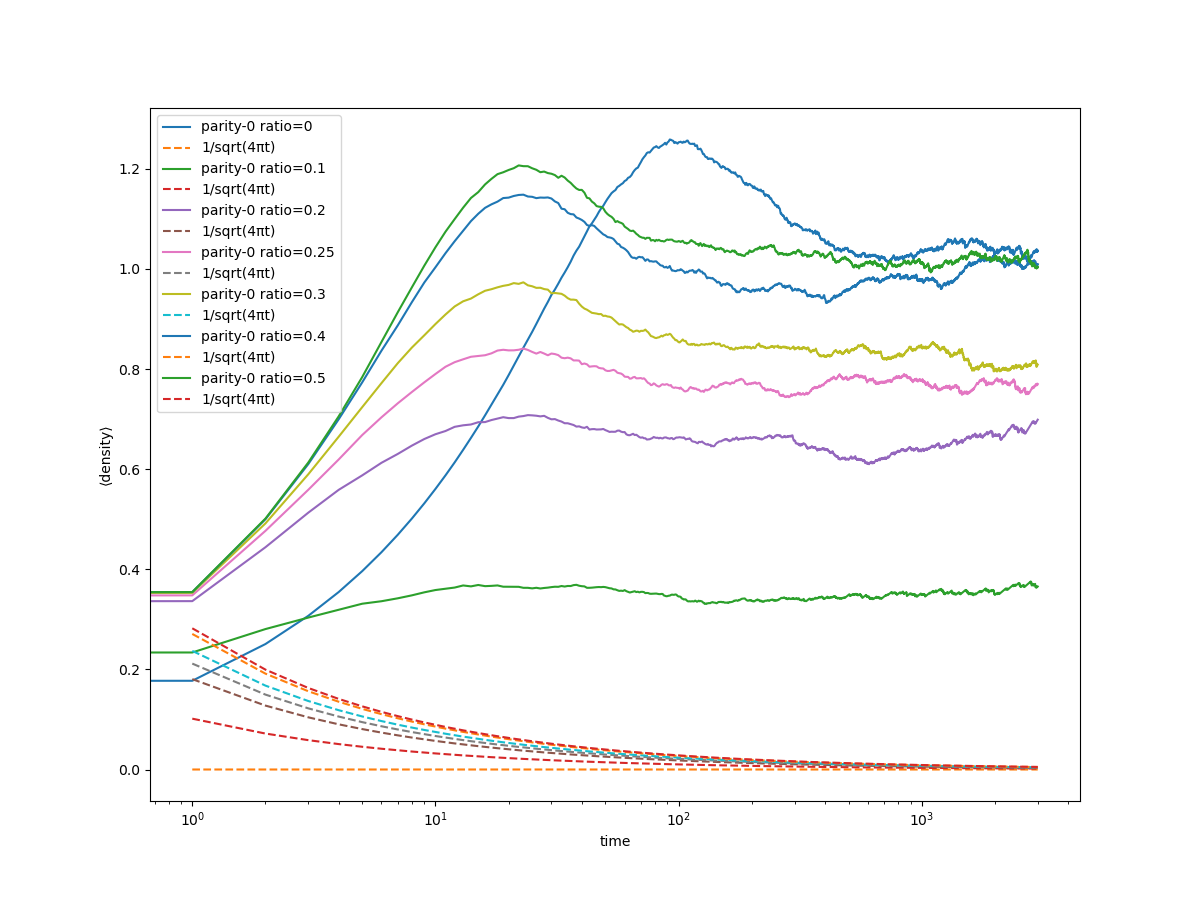
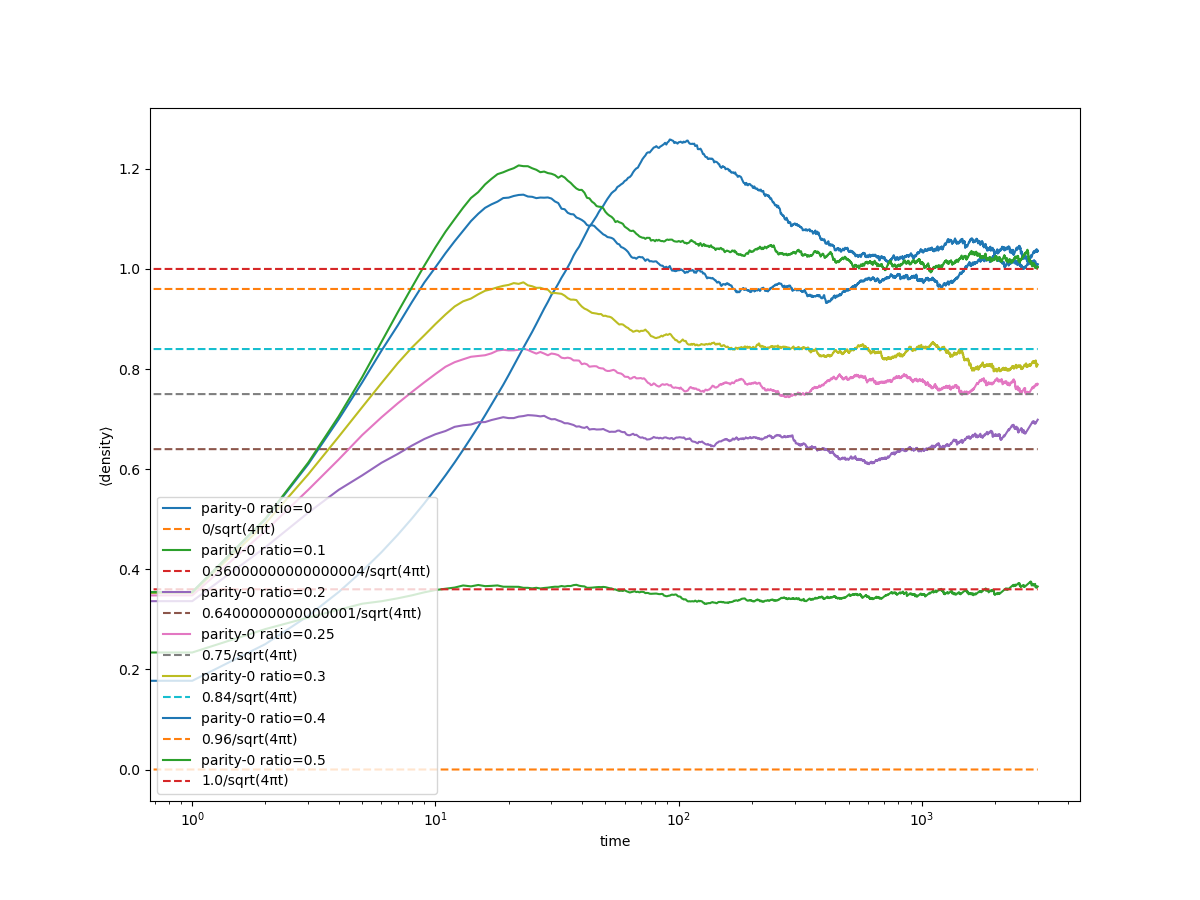
symmetry check

Changed region(s): [[0.1233, 0.56, 0.8633, 0.8711], [0.1233, 0.1244, 0.2775, 0.4667]]

diff --git a/test_kk.py b/test_kk.py
@@ -403,7 +403,7 @@ def main():
     plt.figure(figsize=(12,9))
     for p in params:
         plt.plot(times, avg_densities[p]*(np.sqrt(4 * np.pi * np.array(times)))/(N*rho), label=f"parity-0 ratio={p}")
-        plt.plot(times[1:], np.full(t_max, 4*(1-p)*p) , linestyle='--', label = f'{4*p*(1-p)}/sqrt(4πt)')
+        plt.plot(times, np.full(t_max, 4*(1-p)*p) , linestyle='--', label = f'{4*p*(1-p)}/sqrt(4πt)')
     # plt.plot(times, np.full(t_max, 1 ), linestyle='--', label = '1')
     # plt.plot(times, np.full(t_max, 0.75),linestyle='--', label = '0.75')
     plt.xlabel("time")
